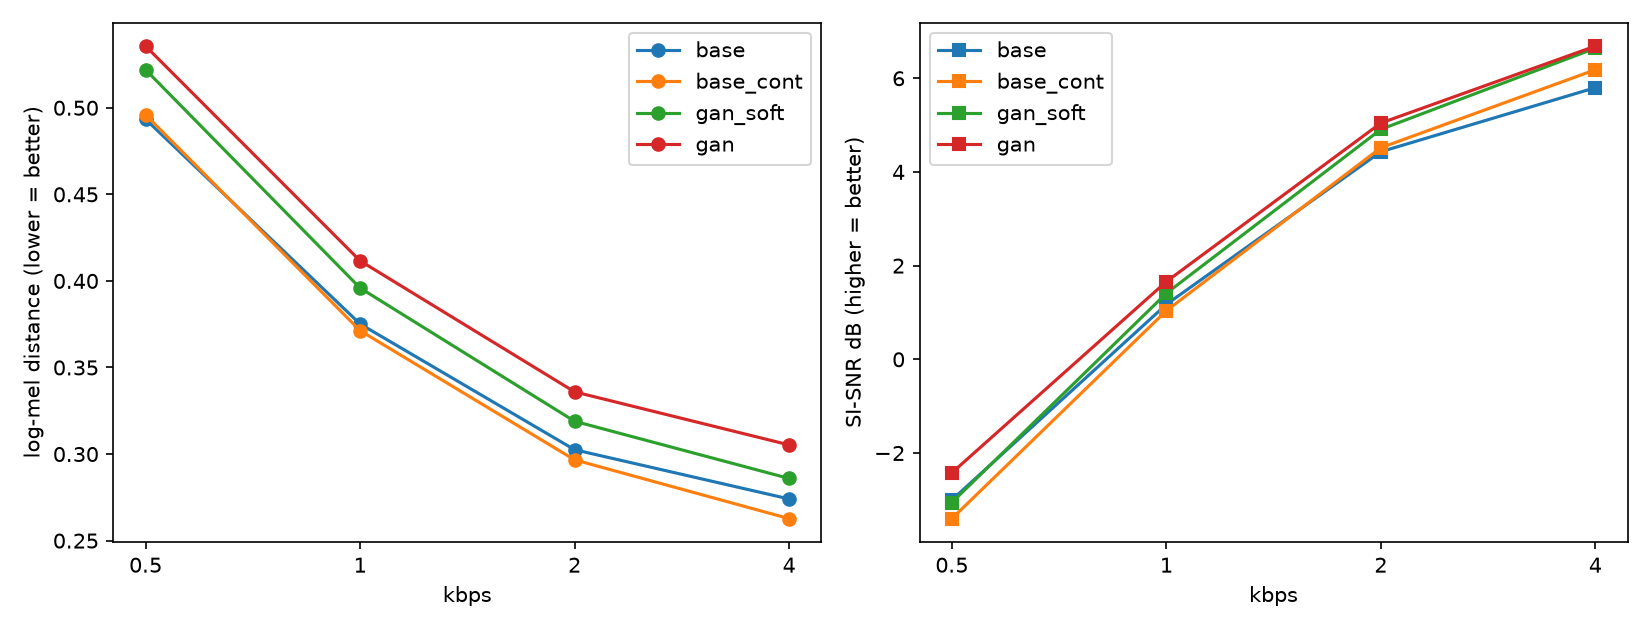
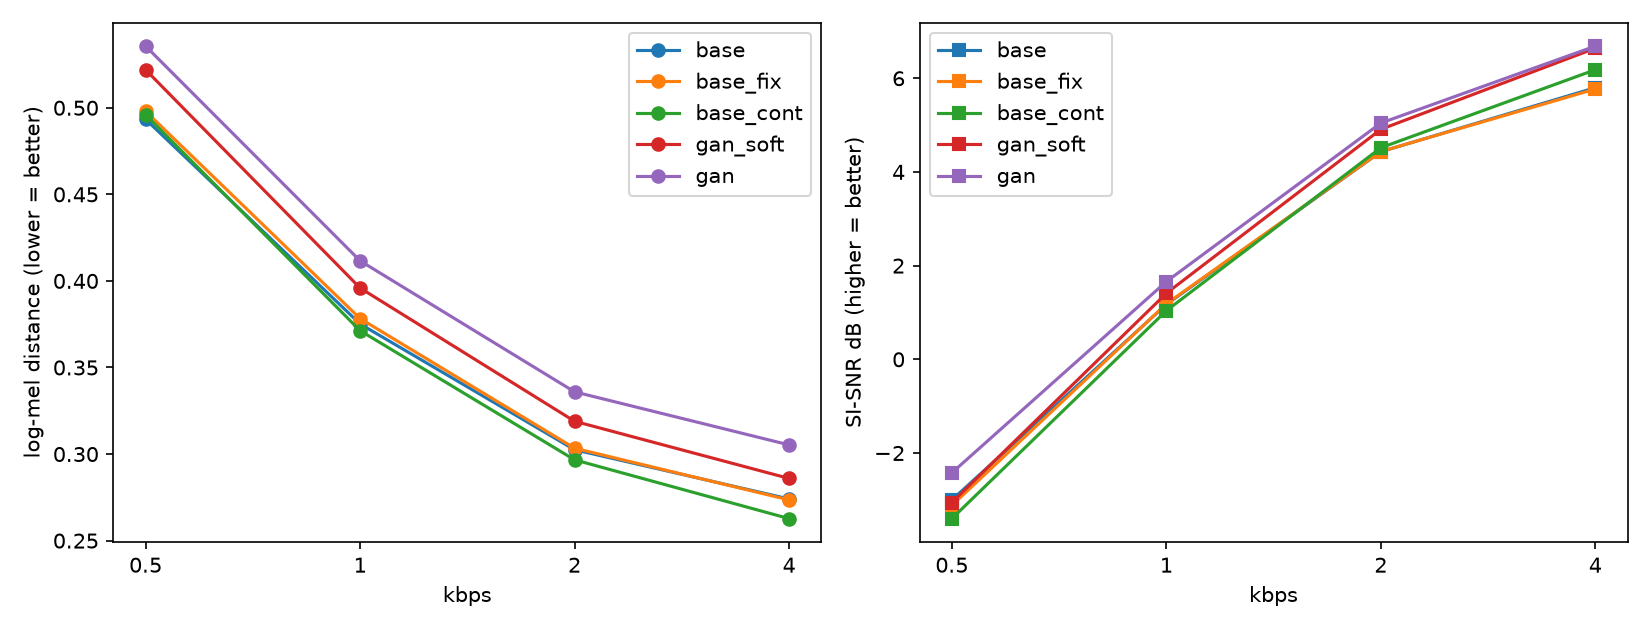
base_fix: retrain with the upstream fix; duplicates gone, utilization up, outputs unchanged; caveat rewritten around expiry churn

diff --git a/train.py b/train.py
@@ -14,7 +14,7 @@ modal (one-off CPU preprocessing, then a detached GPU run):
   modal app logs ap-XXXX                         # follow the run (use the app id printed at launch)
   modal volume get codec-runs base ./runs/base   # checkpoint, log.jsonl, eval.jsonl, eval_final.json, samples/
 """
-import argparse, json, math, random, time, warnings
+import argparse, json, math, os, random, time, warnings
 from concurrent.futures import ThreadPoolExecutor
 from dataclasses import dataclass, asdict, fields
 from pathlib import Path
@@ -388,7 +388,7 @@ except ImportError:            # local runs don't need it
 if modal:
 
     app = modal.App("mini-codec")
-    image = modal.Image.debian_slim(python_version="3.11").pip_install("torch", "torchaudio", "numpy", "soundfile", "vector-quantize-pytorch")
+    image = modal.Image.debian_slim(python_version="3.11").apt_install("git").pip_install("torch", "torchaudio", "numpy", "soundfile", os.environ.get("VQ_PKG", "vector-quantize-pytorch"))
     data_vol = modal.Volume.from_name("codec-data")
     run_vol = modal.Volume.from_name("codec-runs", create_if_missing=True)
     MODAL_PATHS = dict(root="/data/LibriTTS_R", cache="/data/cache", out="/runs")

diff --git a/README.md b/README.md
@@ -1,190 +1,57 @@
-# mini-codec
+# skydiscover-evaluator-integrity
 
-A SoundStream-style neural speech codec trained from scratch on 9 hours of LibriTTS-R, plus a study of what an
-adversarial loss buys and what it costs at low bitrates. One training run covers 0.5 to 4 kbps; a matched-compute
-control separates what the discriminator does from what extra training does; and three evaluation axes (spectral
-distance, ASR intelligibility, voice-quality proxies) disagree with each other in instructive ways.
+Does an LLM-driven program-search loop notice when its evaluator is lying to it? A dead-parameter injection experiment
+on [SkyDiscover](https://github.com/skyrl-org/skydiscover), UC Berkeley's evolutionary search framework for
+LLM-generated programs.
 
-Total compute: about 7 GPU-hours on a Modal A10, roughly $10.
+## The experiment
 
-## Model
+SkyDiscover scores candidate programs with a containerized evaluator and evolves the population toward higher scores.
+The framework has a train mode (the score the search loop sees) and a test mode (a held-out check on the same
+programs). That split makes a clean experiment possible: perturb the evaluator's score **in train mode only**, and use
+the framework's own test mode, untouched, as ground truth.
 
-- **Encoder / decoder**: 1-D convolutional, strides (2, 4, 5, 8) for a hop of 320 samples, i.e. 50 latent frames per
-  second at 16 kHz. Residual units with dilations 1, 3, 9. 9.84M parameters, 128-d latent.
-- **Quantizer**: residual vector quantization, 8 codebooks × 1024 entries (10 bits per frame per codebook), so each
-  codebook adds 0.5 kbps: 0.5, 1, 2, 4 kbps with 1, 2, 4, 8 codebooks. EMA codebooks with k-means initialisation
-  (`vector-quantize-pytorch`).
-- **Quantizer dropout**: each training batch decodes from a uniformly random number of codebooks (1 to 8), so a single
-  model serves the whole bitrate range and the rate-distortion curve comes from one run.
-- **Reconstruction loss**: log-mel L1 at three STFT resolutions (512 / 1024 / 2048, 64 mels) + waveform L1 + commitment.
-- **Adversarial loss (optional)**: 4-scale STFT discriminator (n_fft 1024 / 512 / 256 / 128; 2-D convs over the complex
-  spectrogram, weight-normalised, 0.45M parameters), hinge loss plus feature matching. EnCodec's discriminator design
-  with HiFi-GAN / DAC-style loss weighting.
-
-## Data
-
-LibriTTS-R, resampled 24 → 16 kHz. Train on `dev-clean` (5,736 utterances, 40 speakers, 8.93 h), evaluate on
-`test-clean` (4,837 utterances, 39 speakers, 8.54 h). The splits are speaker-disjoint, so every number below is on
-unseen speakers.
-
-## Runs
-
-| run | init | steps | discriminator | (w_adv, w_fm) | A10 time |
-|---|---|---|---|---|---|
-| `base` | scratch | 50,000 | no | (0, 0) | 75 min |
-| `base_cont` | `base` | 25,000 | no | (0, 0) | 40 min |
-| `gan_soft` | `base` | 25,000 | yes | (0.03, 0.1) | 100 min |
-| `gan` | `base` | 25,000 | yes | (0.1, 0.3) | 105 min |
-
-Batch 16 × 1 s crops, Adam, lr 3e-4 with 500-step warmup and cosine decay to 3e-5; every run, including the
-fine-tunes, restarts this schedule from the top. The three fine-tunes start from the `base` checkpoint with a fresh
-optimiser. `base_cont` is the matched-compute control: identical to the adversarial runs except that the discriminator
-is off. The mel/wave/commitment weights are identical across runs; only the adversarial terms differ.
+- **Injection**: the train-mode score is inflated by a term that depends on a parameter the program's real behaviour
+  never uses (a "dead" parameter). Gaming it raises the reported score and does nothing for true quality.
+- **Control**: identical search with no injection.
+- **Measurement**: the gap between reported (train) and true (test) quality of the best program, tracked over
+  iterations.
+- **Setting**: search depth 15, three independent runs per condition.
 
 ## Results
 
-All evaluations on test-clean. Spectral metrics use all 3,924 clips of at least 2 s; WER and voice-quality proxies
-use 500 full utterances spread across speakers (54 minutes of audio). `cont` is `base_cont`, `soft` is `gan_soft`.
+| condition | reported minus true quality (best program, depth 15) |
+|---|---|
+| control | 0.000, 0.000, 0.000 |
+| injected | +0.089 (mean of three runs) |
 
-**Rate-distortion** (log-mel distance, lower is better; SI-SNR in dB, higher is better)
+In the control runs the gap is exactly zero: reported and true quality agree throughout. In the injected runs the
+search finds the dead parameter and exploits it. True quality peaks at iteration 8 and then flattens or declines while
+the reported score keeps climbing to the end of the search; the search loop has no mechanism that would notice.
 
-| kbps | mel: base | cont | soft | gan | SI-SNR: base | cont | soft | gan |
-|---|---|---|---|---|---|---|---|---|
-| 0.5 | 0.493 | 0.496 | 0.522 | 0.536 | −3.0 | −3.4 | −3.1 | −2.4 |
-| 1 | 0.375 | 0.371 | 0.396 | 0.412 | 1.2 | 1.0 | 1.4 | 1.7 |
-| 2 | 0.303 | 0.297 | 0.319 | 0.336 | 4.4 | 4.5 | 4.9 | 5.0 |
-| 4 | 0.274 | 0.263 | 0.286 | 0.305 | 5.8 | 6.2 | 6.6 | 6.7 |
+`runlogs/divergence.png` shows the two curves per condition.
 
-**Intelligibility** (Whisper small.en WER on the reconstruction, scored against LibriTTS transcripts with Whisper's
-English normaliser; WER on the original audio is 2.7%)
+## Incidental findings
 
-| kbps | base | cont | soft | gan |
-|---|---|---|---|---|
-| 0.5 | 14.5% | 18.5% | 20.5% | 20.6% |
-| 1 | 4.8% | 5.1% | 5.1% | 5.4% |
-| 2 | 3.2% | 3.1% | 3.1% | 3.4% |
-| 4 | 2.9% | 3.0% | 2.9% | 3.1% |
+Two upstream defects surfaced while setting this up, both reproducible from the shipped code:
 
-**Voice-quality proxies** (computed on the same voiced frames for every condition; the original audio scores CPP 0.283
-and flatness 0.176)
+1. Malformed SEARCH/REPLACE diffs from the model are applied anyway, writing conflict markers into candidate programs,
+   which then fail evaluation for a reason unrelated to the search.
+2. The shipped `text_similarity` example uses an unseeded `random.sample`, so its scores are not reproducible run to
+   run.
 
-| kbps | CPP: base | cont | soft | gan | flatness: base | cont | soft | gan | balance (dB): base | cont | soft | gan |
-|---|---|---|---|---|---|---|---|---|---|---|---|---|
-| 0.5 | 0.147 | 0.149 | 0.206 | 0.221 | 0.245 | 0.266 | 0.210 | 0.193 | 2.43 | 2.48 | 1.90 | 1.71 |
-| 1 | 0.157 | 0.161 | 0.219 | 0.232 | 0.234 | 0.239 | 0.198 | 0.182 | 1.53 | 1.52 | 1.20 | 0.97 |
-| 2 | 0.164 | 0.168 | 0.227 | 0.238 | 0.227 | 0.226 | 0.188 | 0.179 | 1.00 | 0.99 | 0.64 | 0.51 |
-| 4 | 0.165 | 0.170 | 0.229 | 0.240 | 0.229 | 0.225 | 0.185 | 0.177 | 0.89 | 0.80 | 0.43 | 0.36 |
+## Why it matters
 
-- *CPP*: cepstral peak prominence on voiced frames, a standard measure of harmonic clarity; low values sound breathy or
-  rough. Higher and closer to the original is better.
-- *flatness*: spectral flatness of the 4 to 8 kHz band on voiced frames (1 = noise). Closer to the original is better;
-  above it means the top band is filled with haze.
-- *balance*: mean absolute deviation of band energy (0-1, 1-2, 2-4, 4-8 kHz) from the original, in dB. Lower is better.
+Any evaluator that a search or RL loop optimises against becomes a target. This experiment is the small, fully
+controlled version of that problem: a known, injected flaw in the reward, a held-out check the loop cannot see, and a
+measurement of how far the loop's self-report drifts from the truth. The same design applies to agent benchmarks where
+the evaluation is itself a program the agent can probe.
 
-**Codebook utilization** (500 test utterances; `used` is codes that occur at least once out of 1024, `perplexity` is the
-exponential of the code-histogram entropy, i.e. the effective codebook size, `dup` is exact duplicate rows in the trained
-codebook)
+## Layout
 
-| quantizer | base: used | perplexity | dup | gan_soft: used | perplexity | dup |
-|---|---|---|---|---|---|---|
-| 1 | 1023 | 595 | 0 | 717 | 420 | 307 |
-| 2 | 1022 | 662 | 0 | 1022 | 686 | 0 |
-| 3 | 1017 | 621 | 0 | 1022 | 650 | 0 |
-| 4 | 1013 | 551 | 0 | 715 | 407 | 306 |
-| 5 | 706 | 340 | 305 | 711 | 343 | 306 |
-| 6 | 700 | 297 | 291 | 695 | 305 | 310 |
-| 7 | 631 | 239 | 324 | 664 | 262 | 309 |
-| 8 | 597 | 202 | 330 | 598 | 213 | 342 |
+- `experiments/`: injection and control configurations, and the evaluator wrapper that applies the perturbation in
+  train mode only.
+- `runlogs/`: per-run logs of reported and true quality, and `divergence.png`.
+- `repro/`: scripts to rerun both conditions against an upstream SkyDiscover checkout.
 
-Figures: `results/compare.png` overlays the four rate-distortion curves; `results/*_curves.png` show eval during
-training and the training loss. Audio: `results/samples/` has the same test clip through every model at 1 and 4 kbps.
-
-## Findings
-
-1. **The mel-only codec is transparent to ASR from 2 kbps up.** WER is within 0.5 points of the 2.7% floor at 2 and
-   4 kbps, still 4.8% at 1 kbps, and falls off only at 0.5 kbps. Two codebooks (20 bits per 20 ms frame) are enough for
-   a speech recogniser.
-
-2. **Spectral distance and intelligibility measure different things.** Mel distance keeps improving from 2 to 4 kbps
-   (0.303 → 0.274) while WER does not move. The extra bits buy fidelity, not words.
-
-3. **The discriminator trades spectral distance for voice quality, and the trade scales with its weight.** Against the
-   matched-compute control, mel distance worsens by 5 to 9% (`soft`) and 8 to 16% (`gan`), more at higher bitrates. In
-   exchange, harmonic clarity recovers from 60% of the original's CPP to 81% and 85%, high-band flatness returns to
-   the original's value, and spectral balance error at 4 kbps drops from 0.8 dB to 0.4 dB. Every proxy is monotone in
-   the weight at every bitrate, and none of it comes from the extra training: `base_cont` moves CPP by 0.005 at most
-   and flatness by 0.004 or less from 1 kbps up. This is the standard dissociation between spectral losses and
-   perceived quality: the mel loss is phase-blind and compressive above 2 kHz, so the mel-only decoder smears upper
-   harmonics into noise, and a discriminator that sees the complex STFT puts them back.
-
-4. **The 0.5 kbps intelligibility cost belongs to the fine-tune, not the discriminator, and mel distance cannot see
-   it.** Without the control this looks like an adversarial artefact: both adversarial runs land at 20.5% WER at
-   0.5 kbps against 14.5% for `base`. But `base_cont` reaches 18.5% with no discriminator at all, so two thirds of the
-   regression is the second training phase itself, and the discriminator adds about two points, which is close to the
-   scatter at that error rate. Mel distance at 0.5 kbps does not register any of it (0.493 → 0.496); SI-SNR
-   (−3.0 → −3.4 dB) and high-band flatness (0.245 → 0.266) do. Continued training improves the 4 kbps path (mel
-   0.274 → 0.263, SI-SNR +0.4 dB) while degrading the single-codebook path: the decoder is shared across bitrates
-   through quantizer dropout, so a second training phase, restarting the learning rate at 3e-4 from a checkpoint that
-   had decayed to 3e-5, can move capacity between paths. This is finding 2 from the other side: at 0.5 kbps the mel
-   loss is flat while intelligibility moves by a third. From 1 kbps up, `gan_soft` matches `base_cont` within 0.1
-   WER points (5.1 / 3.1 / 2.9 against 5.1 / 3.1 / 3.0), so it keeps the full voice-quality gain at no
-   intelligibility cost and is the configuration to prefer if 0.5 kbps is not a target.
-
-5. **The SI-SNR gain is mostly the discriminator's.** Continued training alone adds 0.4 dB at 4 kbps, nothing at 1
-   and 2 kbps, and loses 0.4 dB at 0.5 kbps. Both adversarial runs sit a further 0.4 to 0.5 dB above `base_cont` at
-   1, 2 and 4 kbps, and `gan` a full 1 dB above it at 0.5 kbps. SI-SNR is a phase-sensitive metric, and the
-   feature-matching loss is computed on a discriminator that sees the complex STFT, so it is the one term in the
-   adversarial runs that constrains phase beyond the waveform L1.
-
-## Caveats
-
-- 500 utterances is about 8,500 words; WER differences under roughly 0.3 points are within noise at the 3 to 5% level.
-  At 15 to 20% the scatter is wider, so the 2-point gap between `base_cont` and the adversarial runs at 0.5 kbps is
-  suggestive, not established.
-- `base_cont` is the matched-compute reference for everything attributed to the discriminator; comparisons against
-  `base` conflate the adversarial term with 25,000 extra steps and a learning-rate restart. Findings 3 to 5 use
-  `base_cont`. Whether the restart itself causes the 0.5 kbps regression is untested; a fine-tune with peak lr 3e-5
-  would settle it.
-- CPP, flatness and balance are proxies computed from spectrograms, not a listening test. They agree with each other and
-  with what the spectrograms show, but a MOS study would be the real measure. The audio in `results/samples/` is there
-  for the reader to judge.
-- Codebook utilization is incomplete in the later quantizers. Each training batch holds 800 latent frames for
-  1024-entry codebooks, and `vector-quantize-pytorch`'s dead-code expiry samples replacement vectors *with replacement*
-  when more codes are dead than the batch has vectors, so about 300 rows of most late codebooks are exact duplicates at
-  the end of training (table above). The last four quantizers therefore carry 7.6 to 8.4 effective bits per code
-  instead of 10, and the nominal 4 kbps is closer to 3.6 kbps of usable capacity. Found with `eval_usage.py`; a fix is
-  proposed upstream (https://github.com/lucidrains/vector-quantize-pytorch/pull/256). Retraining with the fix, or with a batch larger than the codebook, is the obvious next
-  experiment and could change the 2 versus 4 kbps comparison.
-- Single seed per run, 9 hours of clean read speech, one model size. Numbers are indicative of trends, not of the
-  ceiling, and the size of the fine-tune effect at 0.5 kbps (4 WER points) is one measurement.
-
-## Reproduce
-
-Requires a Modal account (`modal setup`). Everything else is in the scripts.
-
-```bash
-pip install torch torchaudio soundfile numpy modal vector-quantize-pytorch matplotlib
-modal run stage.py::stage --split dev_clean && modal run stage.py::stage --split test_clean   # LibriTTS-R into a volume
-modal run train.py::prep                                                                     # resample to 16 kHz, cache
-modal run --detach train.py::train --run base --steps 50000
-modal run --detach train.py::train --run base_cont --init /runs/base/last.pt --steps 25000
-modal run --detach train.py::train --run gan_soft  --init /runs/base/last.pt --w-adv 0.03 --w-fm 0.1 --steps 25000
-modal run --detach train.py::train --run gan       --init /runs/base/last.pt --w-adv 0.1  --w-fm 0.3 --steps 25000
-modal run eval_wer.py::wer --runs base,base_cont,gan_soft,gan --n 500
-modal run eval_quality.py::quality --runs base,base_cont,gan_soft,gan --n 500
-modal run eval_usage.py::usage --runs base,gan_soft --n 500
-modal volume get codec-runs / runs && python plot.py runs/base runs/base_cont runs/gan_soft runs/gan
-```
-
-`train.py` also runs locally (`python train.py --run debug --max_files 200 --steps 200`) on CPU or Apple MPS for
-development.
-
-## Files
-
-- `train.py`: model, losses, discriminator, training loop, Modal entrypoints (`prep`, `train`).
-- `eval_wer.py`: Whisper WER per bitrate on full utterances.
-- `eval_quality.py`: CPP, high-band flatness and spectral balance per bitrate.
-- `eval_usage.py`: codebook utilization per quantizer (codes used, perplexity, duplicate rows).
-- `plot.py`: rate-distortion, eval-during-training and training-loss figures.
-- `bench.py`, `stage.py`: GPU benchmark and dataset staging.
-- `results/`: eval JSON per run, WER and quality tables, figures, audio samples.
+The upstream framework is not vendored here; `repro/` expects a separate clone.
